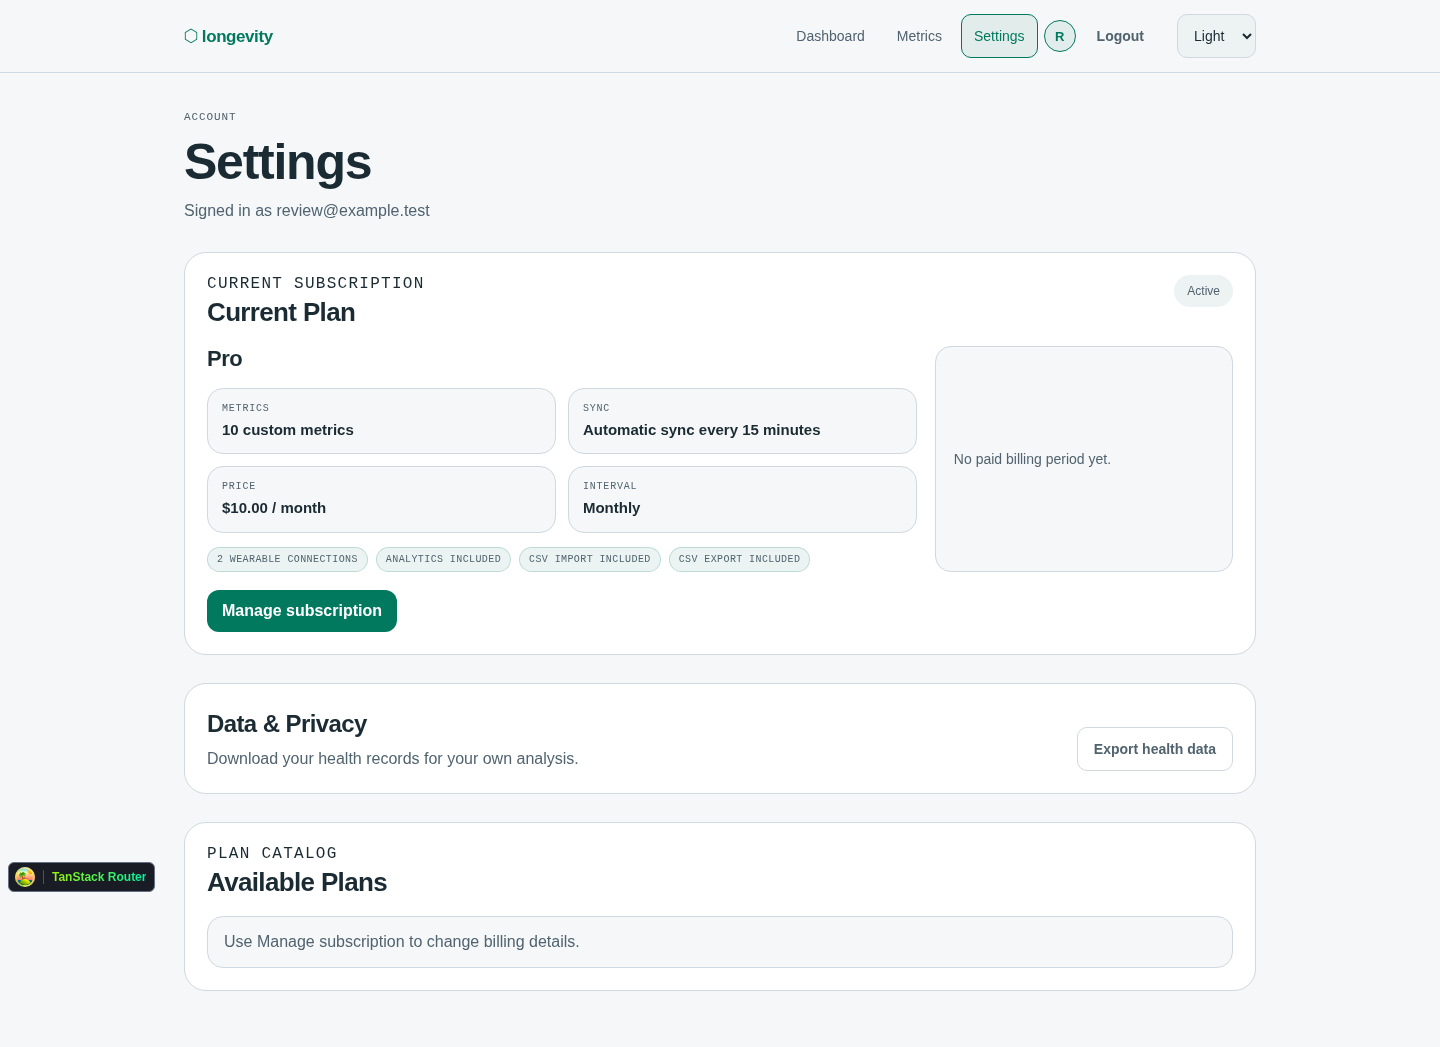
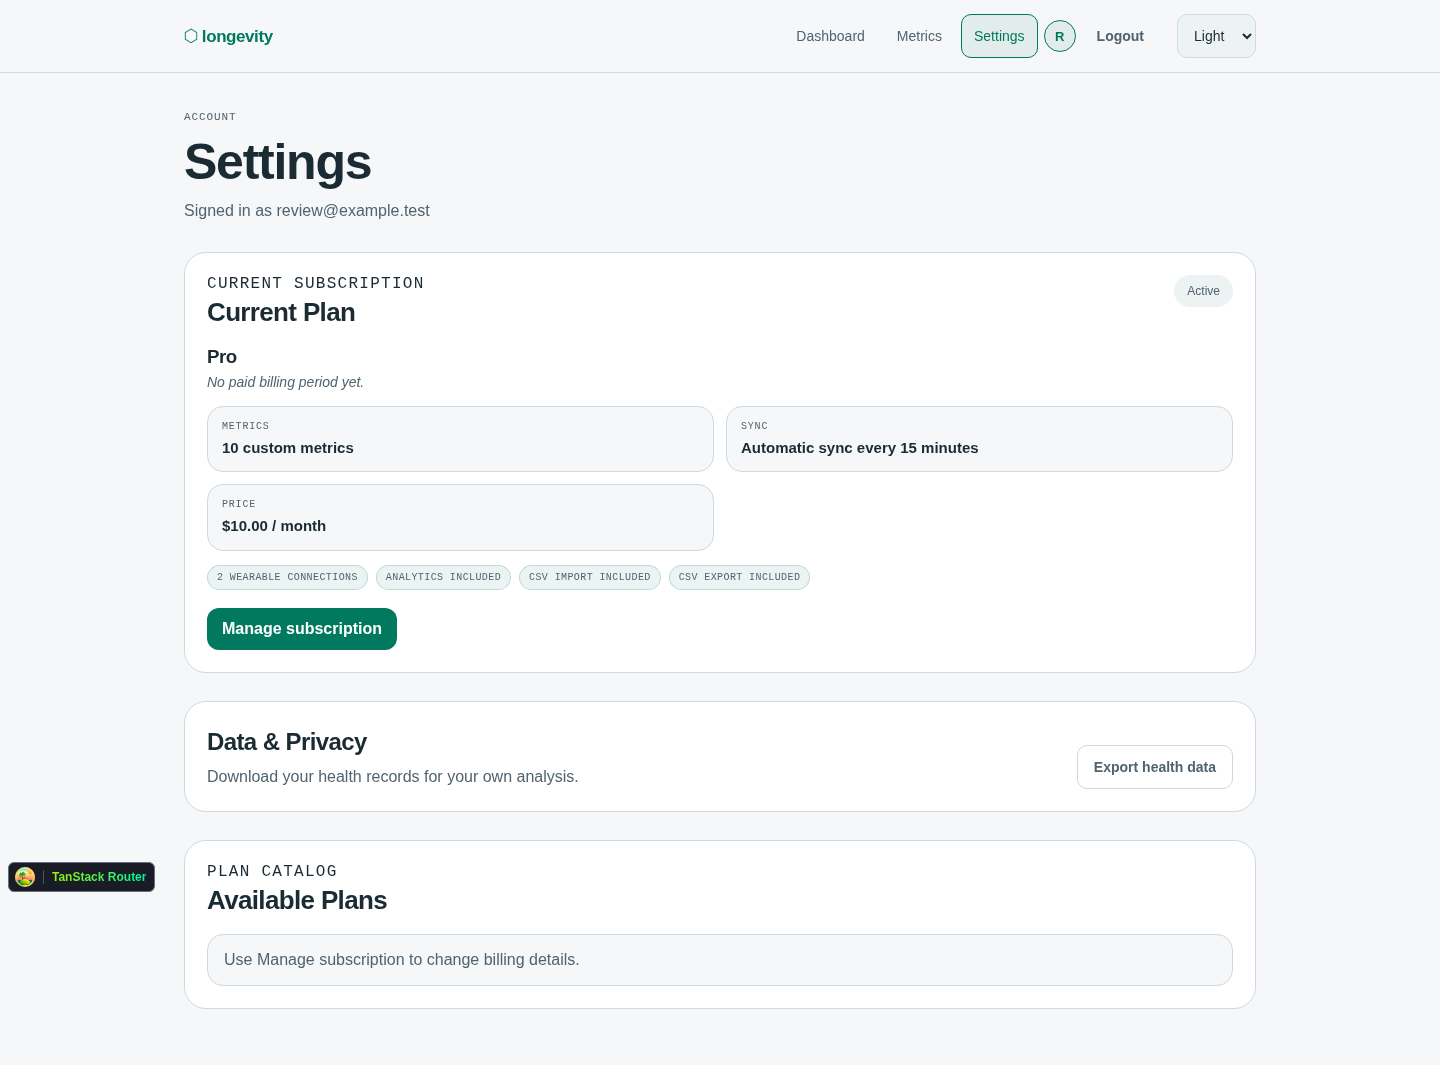
Settings

diff --git a/frontend/src/routes/settings.tsx b/frontend/src/routes/settings.tsx
@@ -116,7 +116,6 @@ function SettingsRoute() {
       >
         <div className="subscription-card-header">
           <div>
-            <p className="meta-label">Current subscription</p>
             <h2>Current Plan</h2>
           </div>
           {currentSubscriptionQuery.data ? (
@@ -142,74 +141,58 @@ function SettingsRoute() {
         ) : null}
         {currentSubscriptionQuery.data ? (
           <>
-            <div className="subscription-current-layout">
-              <div>
-                <h3>{currentSubscriptionQuery.data.plan.name}</h3>
-                <div className="subscription-detail-grid">
-                  <div>
-                    <span className="subscription-detail-label">Metrics</span>
-                    <strong>
-                      {
-                        currentSubscriptionQuery.data.plan
-                          .active_custom_metric_limit
-                      }{" "}
-                      custom metrics
-                    </strong>
-                  </div>
-                  <div>
-                    <span className="subscription-detail-label">Sync</span>
-                    <strong>
-                      {formatSyncPolicy(currentSubscriptionQuery.data.plan)}
-                    </strong>
-                  </div>
-                  {currentSubscriptionQuery.data.price ? (
-                    <div>
-                      <span className="subscription-detail-label">Price</span>
-                      <strong>
-                        {formatSubscriptionPrice(
-                          currentSubscriptionQuery.data.price.unit_amount,
-                          currentSubscriptionQuery.data.price.currency,
-                        )}{" "}
-                        / {currentSubscriptionQuery.data.price.billing_interval}
-                      </strong>
-                    </div>
-                  ) : null}
-                  {currentSubscriptionQuery.data.price ? (
-                    <div>
-                      <span className="subscription-detail-label">
-                        Interval
-                      </span>
-                      <strong>
-                        {formatBillingInterval(
-                          currentSubscriptionQuery.data.price.billing_interval,
-                        )}
-                      </strong>
-                    </div>
-                  ) : null}
+            <div>
+              <h3>{currentSubscriptionQuery.data.plan.name}</h3>
+              {currentSubscriptionQuery.data.cancel_at ? (
+                <p className="subscription-renewal">
+                  Cancels{" "}
+                  {formatSubscriptionDate(
+                    currentSubscriptionQuery.data.cancel_at,
+                  )}
+                </p>
+              ) : currentSubscriptionQuery.data.current_period_end ? (
+                <p className="subscription-renewal">
+                  Renews{" "}
+                  {formatSubscriptionDate(
+                    currentSubscriptionQuery.data.current_period_end,
+                  )}
+                </p>
+              ) : (
+                <p className="subscription-renewal subscription-renewal-empty">
+                  No paid billing period yet.
+                </p>
+              )}
+              <div className="subscription-detail-grid">
+                <div>
+                  <span className="subscription-detail-label">Metrics</span>
+                  <strong>
+                    {
+                      currentSubscriptionQuery.data.plan
+                        .active_custom_metric_limit
+                    }{" "}
+                    custom metrics
+                  </strong>
                 </div>
-                <PlanCapabilityList plan={currentSubscriptionQuery.data.plan} />
+                <div>
+                  <span className="subscription-detail-label">Sync</span>
+                  <strong>
+                    {formatSyncPolicy(currentSubscriptionQuery.data.plan)}
+                  </strong>
+                </div>
+                {currentSubscriptionQuery.data.price ? (
+                  <div className="subscription-detail-wide">
+                    <span className="subscription-detail-label">Price</span>
+                    <strong>
+                      {formatSubscriptionPrice(
+                        currentSubscriptionQuery.data.price.unit_amount,
+                        currentSubscriptionQuery.data.price.currency,
+                      )}{" "}
+                      / {currentSubscriptionQuery.data.price.billing_interval}
+                    </strong>
+                  </div>
+                ) : null}
               </div>
-              <div className="subscription-billing-panel">
-                {currentSubscriptionQuery.data.cancel_at ? (
-                  <p>
-                    Cancels{" "}
-                    {formatSubscriptionDate(
-                      currentSubscriptionQuery.data.cancel_at,
-                    )}
-                  </p>
-                ) : currentSubscriptionQuery.data.current_period_end ? (
-                  <p>
-                    Renews{" "}
-                    {formatSubscriptionDate(
-                      currentSubscriptionQuery.data.current_period_end,
-                    )}
-                  </p>
-                ) : (
-                  <p className="subscription-billing-empty">
-                    No paid billing period yet.
-                  </p>
-                )}
-              </div>
+              <PlanCapabilityList plan={currentSubscriptionQuery.data.plan} />
             </div>
             {currentSubscriptionQuery.data.billing_portal_available ? (
               <button
@@ -354,18 +337,6 @@ function formatSubscriptionPrice(unitAmount: number, currency: string) {
     style: "currency",
     currency,
   }).format(unitAmount / 100);
-}
-
-function formatBillingInterval(interval: string) {
-  if (interval === "month") {
-    return "Monthly";
-  }
-
-  if (interval === "year") {
-    return "Yearly";
-  }
-
-  return interval;
 }
 
 function formatSubscriptionDate(value: string) {

diff --git a/frontend/src/test/settings-route.test.tsx b/frontend/src/test/settings-route.test.tsx
@@ -249,7 +249,7 @@ describe("settings route", () => {
     ).not.toBeInTheDocument();
   });
 
-  it("states the empty billing period quietly instead of a headline", async () => {
+  it("states the empty billing period quietly under the plan name", async () => {
     getMeMock.mockResolvedValue({
       email: "user@example.com",
     });
@@ -261,13 +261,12 @@ describe("settings route", () => {
     expect(
       await screen.findByText(/no paid billing period yet/i),
     ).toBeInTheDocument();
-    const billingPanel = screen
-      .getByText(/no paid billing period yet/i)
-      .closest(".subscription-billing-panel");
-    expect(billingPanel).not.toBeNull();
+    const planHeading = screen.getByRole("heading", { name: /^free$/i });
+    const planBlock = planHeading.closest("div");
+    expect(planBlock).not.toBeNull();
     expect(
-      within(billingPanel as HTMLElement).getByText(/no paid billing period yet/i),
-    ).toHaveClass("subscription-billing-empty");
+      within(planBlock as HTMLElement).getByText(/no paid billing period yet/i),
+    ).toHaveClass("subscription-renewal-empty");
   });
 
   it("redirects to /login when the user is not authenticated", async () => {
@@ -360,7 +359,30 @@ describe("settings route", () => {
     ).not.toBeInTheDocument();
   });
 
-  it("renders paid subscription billing interval and renewal date", async () => {
+  it("shows a single subscription heading without a redundant eyebrow", async () => {
+    getMeMock.mockResolvedValue({
+      email: "user@example.com",
+    });
+    getCurrentSubscriptionMock.mockResolvedValue(proSubscription());
+    getSubscriptionPlansMock.mockResolvedValue([]);
+
+    renderRoute("/settings");
+
+    const current = await screen.findByRole("region", {
+      name: "Current subscription",
+    });
+    expect(
+      await within(current).findByRole("heading", { name: /^pro$/i }),
+    ).toBeInTheDocument();
+    expect(
+      within(current).getByRole("heading", { name: "Current Plan" }),
+    ).toBeInTheDocument();
+    expect(
+      within(current).queryByText("Current subscription", { exact: true }),
+    ).not.toBeInTheDocument();
+  });
+
+  it("renders paid subscription price and renewal date without a separate interval tile", async () => {
     getMeMock.mockResolvedValue({
       email: "user@example.com",
     });
@@ -373,7 +395,7 @@ describe("settings route", () => {
       await screen.findByRole("heading", { name: /^pro$/i }),
     ).toBeInTheDocument();
     expect(screen.getByText(/\$10\.00 \/ month/i)).toBeInTheDocument();
-    expect(screen.getByText(/monthly/i)).toBeInTheDocument();
+    expect(screen.queryByText("Interval")).not.toBeInTheDocument();
     expect(screen.getByText(/renews aug 2, 2026/i)).toBeInTheDocument();
   });
 

diff --git a/frontend/src/index.css b/frontend/src/index.css
@@ -612,14 +612,6 @@ button {
   height: 50px;
 }
 
-.subscription-current-layout {
-  display: grid;
-  grid-template-columns: minmax(0, 1fr) minmax(210px, 0.42fr);
-  gap: 18px;
-  align-items: stretch;
-}
-
-.subscription-current-layout h3,
 .subscription-plan-card h3 {
   font-family: var(--font-sans);
   font-size: 22px;
@@ -635,7 +627,6 @@ button {
 }
 
 .subscription-detail-grid div,
-.subscription-billing-panel,
 .subscription-help-text,
 .subscription-plan-card {
   border: 1px solid var(--border);
@@ -645,6 +636,10 @@ button {
 
 .subscription-detail-grid div {
   padding: 14px;
+}
+
+.subscription-detail-grid .subscription-detail-wide {
+  grid-column: 1 / -1;
 }
 
 .subscription-detail-label {
@@ -684,27 +679,14 @@ button {
   text-transform: uppercase;
 }
 
-.subscription-billing-panel {
-  display: grid;
-  align-content: center;
-  min-height: 100%;
-  padding: 18px;
-}
-
-.subscription-billing-panel p {
-  color: var(--accent);
-  font-family: var(--font-heading);
-  font-size: 22px;
-  font-weight: 650;
-  letter-spacing: -0.03em;
-}
-
-.subscription-billing-panel .subscription-billing-empty {
+.subscription-renewal {
+  margin: 6px 0 0;
   color: var(--text-dim);
-  font-family: var(--font-sans);
   font-size: 14px;
-  font-weight: 400;
-  letter-spacing: normal;
+}
+
+.subscription-renewal-empty {
+  font-style: italic;
 }
 
 .subscription-primary-action,
@@ -2499,17 +2481,8 @@ button {
     font-size: 22px;
   }
 
-  .subscription-current-layout,
   .subscription-detail-grid {
     grid-template-columns: 1fr;
-  }
-
-  .subscription-billing-panel {
-    min-height: auto;
-  }
-
-  .subscription-billing-panel p {
-    font-size: 20px;
   }
 
   .subscription-price-list li {

diff --git a/reference_docs/knowledge/20-frontend-development.md b/reference_docs/knowledge/20-frontend-development.md
@@ -591,7 +591,7 @@ Current Settings subscription UI checkpoint:
 - `useCurrentSubscriptionQuery()` caches the authenticated user's current subscription under `['current-subscription']`.
 - `getSubscriptionPlans()` fetches the public `GET /api/v1/subscriptions/plans/` catalog.
 - `useSubscriptionPlansQuery()` caches the active plan catalog under `['subscription-plans']`.
-- Settings renders subscription information in card-style panels: current plan name, active custom metric limit, sync interval, current billing price/interval when present, and either `Renews <date>` or `Cancels <date>` from backend-owned subscription state.
+- Settings renders subscription information in card-style panels: current plan name with a muted renewal line (`Renews <date>`, `Cancels <date>`, or a quiet empty-state note), active custom metric limit, sync interval, and the current billing price when present (the redundant separate interval tile was removed since the price already carries `/ month`).
 - Settings renders Checkout upgrade options only for users who are not already managed through Stripe Customer Portal. When `billing_portal_available=true`, Settings hides Checkout upgrade buttons and tells the user to use **Manage subscription** for billing changes.
 - The plan catalog exposes internal `SubscriptionPrice.id` values to the frontend; Stripe `provider_price_id` values remain server-side.
 - `createSubscriptionCheckout()` posts `POST /api/v1/subscriptions/checkout/` with `{ price_id: <internal SubscriptionPrice.id> }`.
